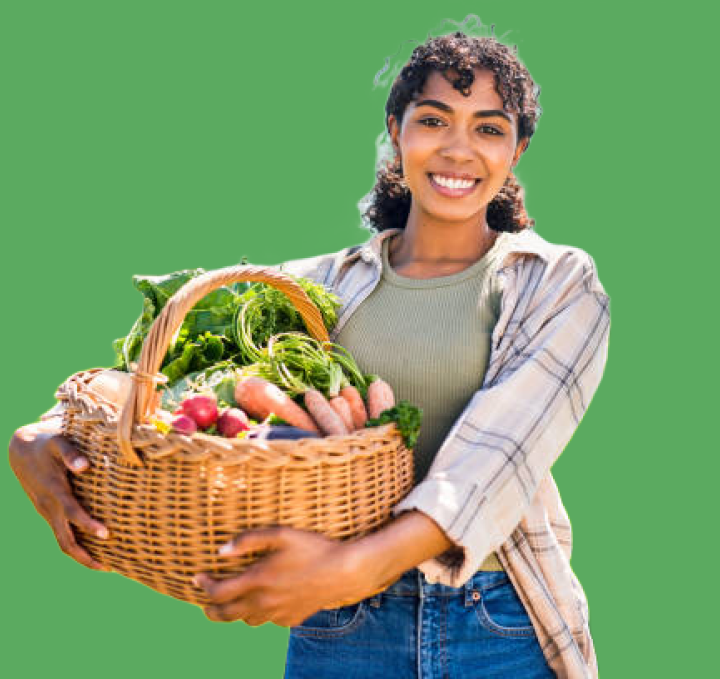
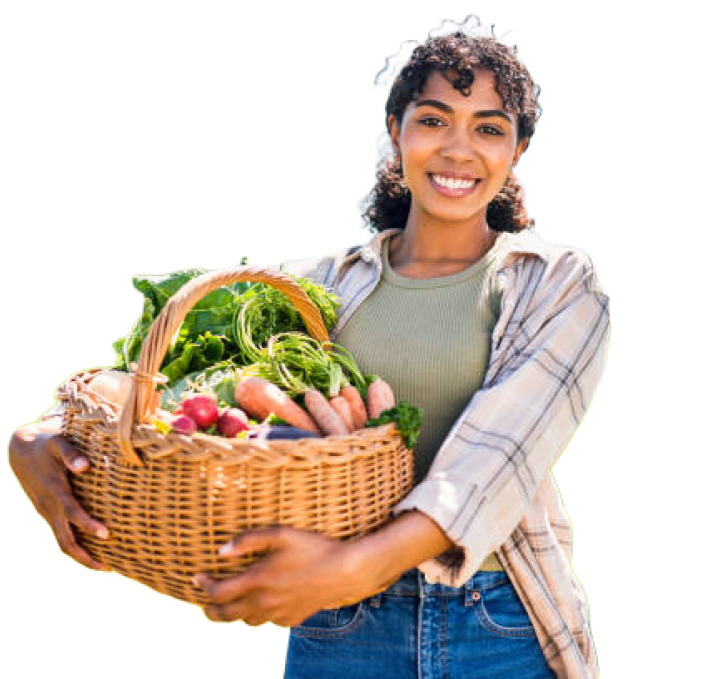
Fix headline styling

diff --git a/src/components/HomeHeadline.jsx b/src/components/HomeHeadline.jsx
@@ -1,7 +1,7 @@
 import Button from "./Button";
 
 const HomeHeadline = () => (
-  <section className="flex flex-col lg:grid lg:grid-cols-2 lg:my-grid max-w-[2000px] m-auto min-h-[500px]">
+  <section className="flex flex-col lg:grid lg:grid-cols-2 lg:my-grid w-full max-w-[2000px] m-auto min-h-[500px]">
     <div className="px-[7%] py-10 lg:my-h1">
       <h1 className="text-5xl w-full text-center lg:text-left m-auto leading-[60px]">Empowering <span className="text-green-30">Agriculture</span> for A Sustainable Future</h1>
       <p className="mt-7 text-center lg:text-left">Welcome to <span className="font-bold">OneFarm</span>, where we empower smallholder farmers in Nigeria by connecting them directly with retailers, ensuring fair revenue distribution.</p>
@@ -10,7 +10,7 @@ const HomeHeadline = () => (
       <Button clas="green" name="Get Started" />
     </div>
 
-    <div className="h-full min-h-[24rem] w-full max-w-lg m-auto lg:my-l bg-headline bg-cover bg-no-repeat bg-center"></div>
+    <div className="h-full min-h-[24rem] w-full max-w-lg lg:max-w-full m-auto lg:my-l bg-headline bg-contain bg-no-repeat bg-center bg-green-30"></div>
   </section>
 );
 
